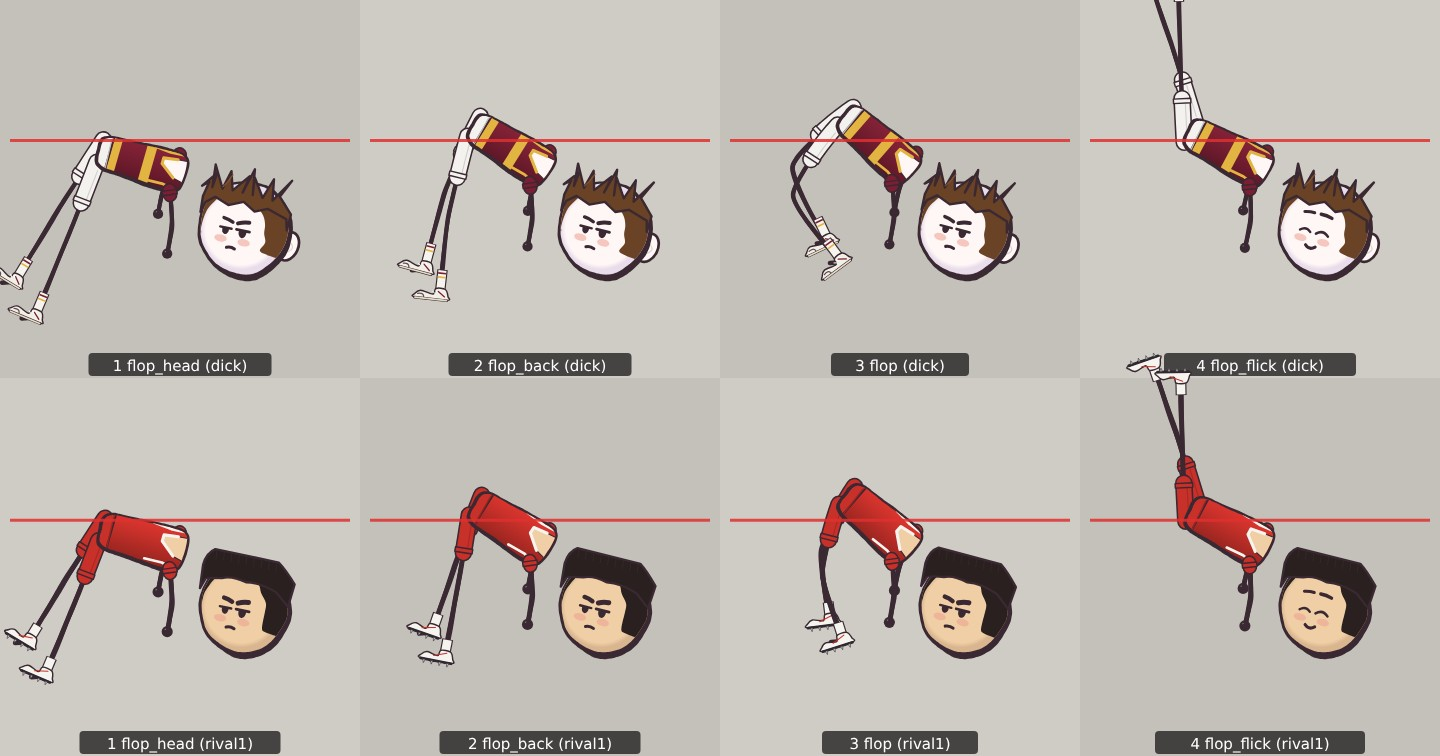
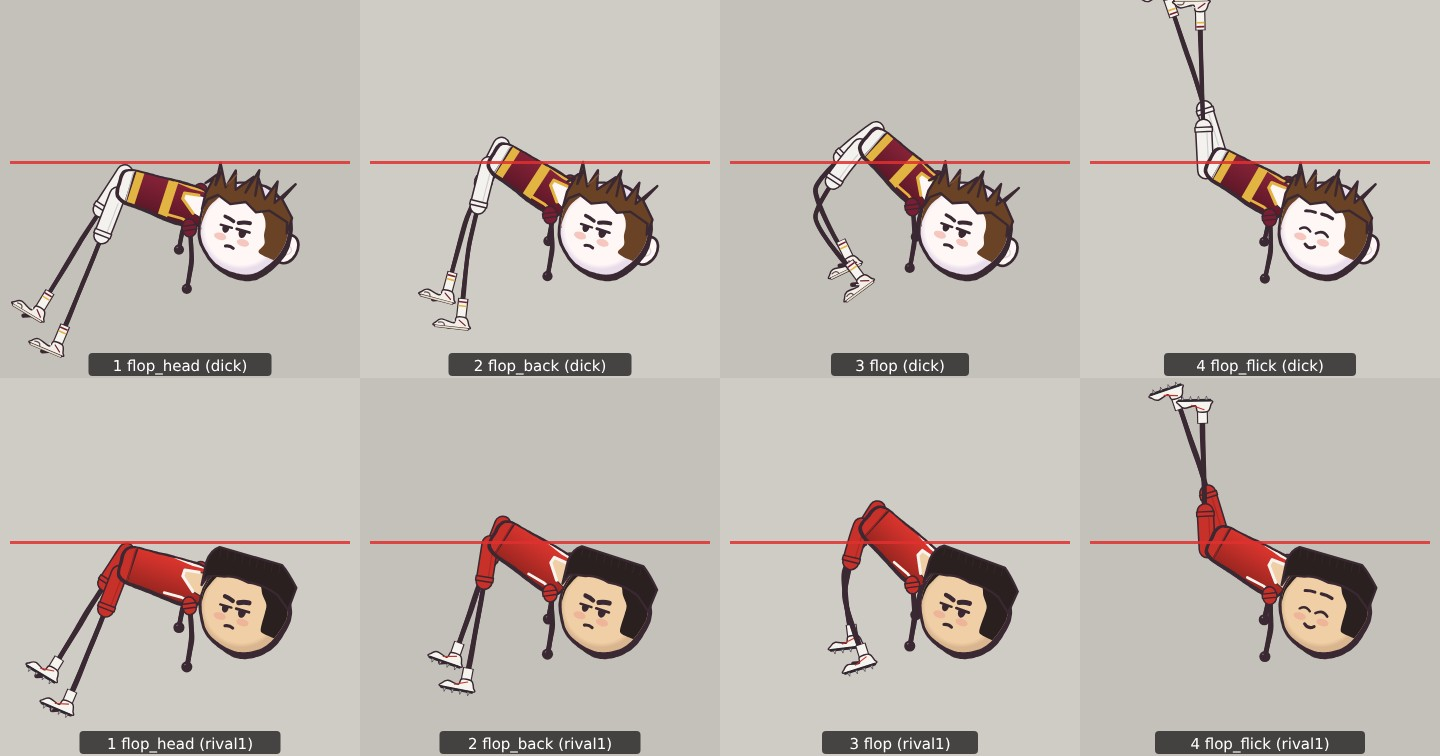
Film 15: cast15 flop poses fixed (head attached, arch)

diff --git a/film/v3/cast15/cast15.py b/film/v3/cast15/cast15.py
@@ -1051,19 +1051,19 @@ def _arch(c, lean, hdx, hdy, roll, ang, depth, kn=-1, spread=12, **kw):
 
 
 def _p_flop_head(c):      # head and shoulders already past the bar, hips rising, legs still trailing nearly straight
-    return _arch(c, 106, 0.30, 0.55, 12, 122, 1.8, -0.5, 10)
+    return _arch(c, 108, 0.08, 0.14, 16, 122, 1.8, -0.5, 10)
 
 
 def _p_flop_back(c):      # the arch almost complete, knees starting to bend
-    return _arch(c, 122, 0.30, 0.48, 14, 110, 1.7, -0.7, 10)
+    return _arch(c, 123, 0.08, 0.14, 18, 110, 1.7, -0.7, 10)
 
 
 def _p_flop(c):           # THE FLOP: a symmetric upside-down U, belly up
-    return _arch(c, 131, 0.30, 0.42, 15, 100, 1.5, -1, 12)
+    return _arch(c, 133, 0.08, 0.14, 20, 100, 1.5, -1, 12)
 
 
 def _p_flop_flick(c):     # legs kicked up and over: jack-knife into an L
-    return J(c, lean=118, yaw=-0.9, roll=14, hdx=0.30, hdy=0.50, expr="happy", arm_r=(94, 0.95, 0.3), arm_l=(112, 0.95, 0.3, BACK),
+    return J(c, lean=120, yaw=-0.9, roll=16, hdx=0.08, hdy=0.14, expr="happy", arm_r=(94, 0.95, 0.3), arm_l=(112, 0.95, 0.3, BACK),
              leg_l=(-108, 1.05, 0.0), leg_r=(-92, 1.05, 0.0))
 
 
@@ -1213,7 +1213,7 @@ def _p_coach_sigh(c):
 
 
 def _p_coach_clumsy_flop(c):   # a sagging, badly arched backwards flop: low hips, flailing arms, legs everywhere
-    return J(c, lean=118, yaw=-0.8, roll=30, hdx=0.30, hdy=0.30, expr="shocked", mouth="o", arm_r=(-50, 1.05, -0.5), arm_l=(-155, 1.05, 0.5, BACK),
+    return J(c, lean=120, yaw=-0.8, roll=30, hdx=0.10, hdy=0.12, expr="shocked", mouth="o", arm_r=(-50, 1.05, -0.5), arm_l=(-155, 1.05, 0.5, BACK),
              leg_r=(-40, 1.0, -0.3), leg_l=(112, 0.80, -1.0))
 
 

diff --git a/film/v3/cast15/API.md b/film/v3/cast15/API.md
@@ -63,7 +63,7 @@ New anchors on every cast15 figure: **`apex`** (the hip joint, the highest point
 
 ### Where the bar goes in the flop (card coordinates, D, head centre = origin, y down)
 
-`flop` (dick, facing right; rival1 and boy2 within 0.03): head centre at (0, 0), `apex` (hips) at **(-1.33, -1.31)**, **`bar` at (-1.30, -1.04)** (0.27 D under the apex, on the underside of the lower back), `foot_l` (-1.51, 0.09). So the crossbar is the horizontal line y = `anchors["bar"][1]`: the head centre hangs **1.04 D below the bar** on the right and the feet about 1.1 D below it on the left, an upside-down U about 1.5 D wide. For a left-facing flop (`facing=-1`) x is negated; anchors come back already mirrored. Stages (dick): `flop_head` apex (-1.61, -0.92) bar (-1.47, -0.69), feet at y 0.5 (hips still rising, legs trailing straight); `flop_back` apex (-1.45, -1.20) bar (-1.38, -0.94); `flop` apex (-1.33, -1.31) bar (-1.30, -1.04); `flop_flick` apex (-1.50, -1.14) bar (-1.41, -0.88), feet far above at y -3.0 (the legs kicked up, the body an L). Read the anchor, do not hard-code it: it scales a little with torso length.
+`flop` (dick, facing right; rival1 and boy2 within 0.03): head centre at (0, 0), `apex` (hips) at **(-1.07, -1.07)**, **`bar` at (-1.05, -0.80)** (0.27 D under the apex, on the underside of the lower back), `foot_l` (-1.25, 0.34). So the crossbar is the horizontal line y = `anchors["bar"][1]`: the head centre hangs **0.80 D below the bar** on the right and the feet about 1.1 D below it on the left, an upside-down U about 1.1 D wide. The head overlaps the shoulder end of the torso (no gap): the torso is tilted to `body_lean` 133 and offset from the head by only `hdx2` 0.08 / `hdy2` 0.14. For a left-facing flop (`facing=-1`) x is negated; anchors come back already mirrored. Stages (dick): `flop_head` apex (-1.37, -0.56) bar (-1.24, -0.32), feet at y 0.9; `flop_back` apex (-1.22, -0.88) bar (-1.15, -0.62); `flop` as above; `flop_flick` apex (-1.26, -0.82) bar (-1.18, -0.56), feet far above at y -2.7 (the body an L). `coach_clumsy_flop` apex (-1.36, -0.85) bar (-1.40, -0.39). Read the anchor, do not hard-code it: it scales a little with torso length.
 
 ## Pose presets (`cast15.POSE_NAMES`; `pose_for(name, cast, facing=1, **overrides)`)
 
@@ -78,7 +78,7 @@ All are authored for a figure travelling or facing screen-RIGHT (`facing=-1` tog
 | `flop_rise` | jumpers | leaving the ground, turning the back to the bar (lean +48, yaw -0.1) |
 | `flop_head` | jumpers | head and shoulders already past the bar (hanging low), hips rising, legs trailing nearly straight |
 | `flop_back` | jumpers | the arch almost complete, knees starting to bend |
-| `flop` | jumpers | **THE FLOP**: a symmetric upside-down U, belly up: torso tilted up to the hips (apex), head hung below the shoulders looking toward the feet, thighs down and out with the shins hanging (knees bent), arms down along the body. Built by `cast15._arch(...)` from `body_lean` 131 + `hdx2`/`hdy2` (torso offset from the head) + polar legs |
+| `flop` | jumpers | **THE FLOP**: a symmetric upside-down U, belly up: torso tilted up to the hips (apex), head joined to the shoulder end (overlapping, no gap) and looking toward the feet, thighs down and out with the shins hanging (knees bent), arms down along the body. Built by `cast15._arch(...)` from `body_lean` 133 + a small `hdx2`/`hdy2` overlap + polar legs |
 | `flop_flick` | jumpers | legs kicked up and over: jack-knife into an L (legs near vertical above the hips) |
 | `land_back` | jumpers | landing on the back, legs up, startled (`sawdust` 0.5) |
 | `lie_back` | jumpers | lying flat on the back |
